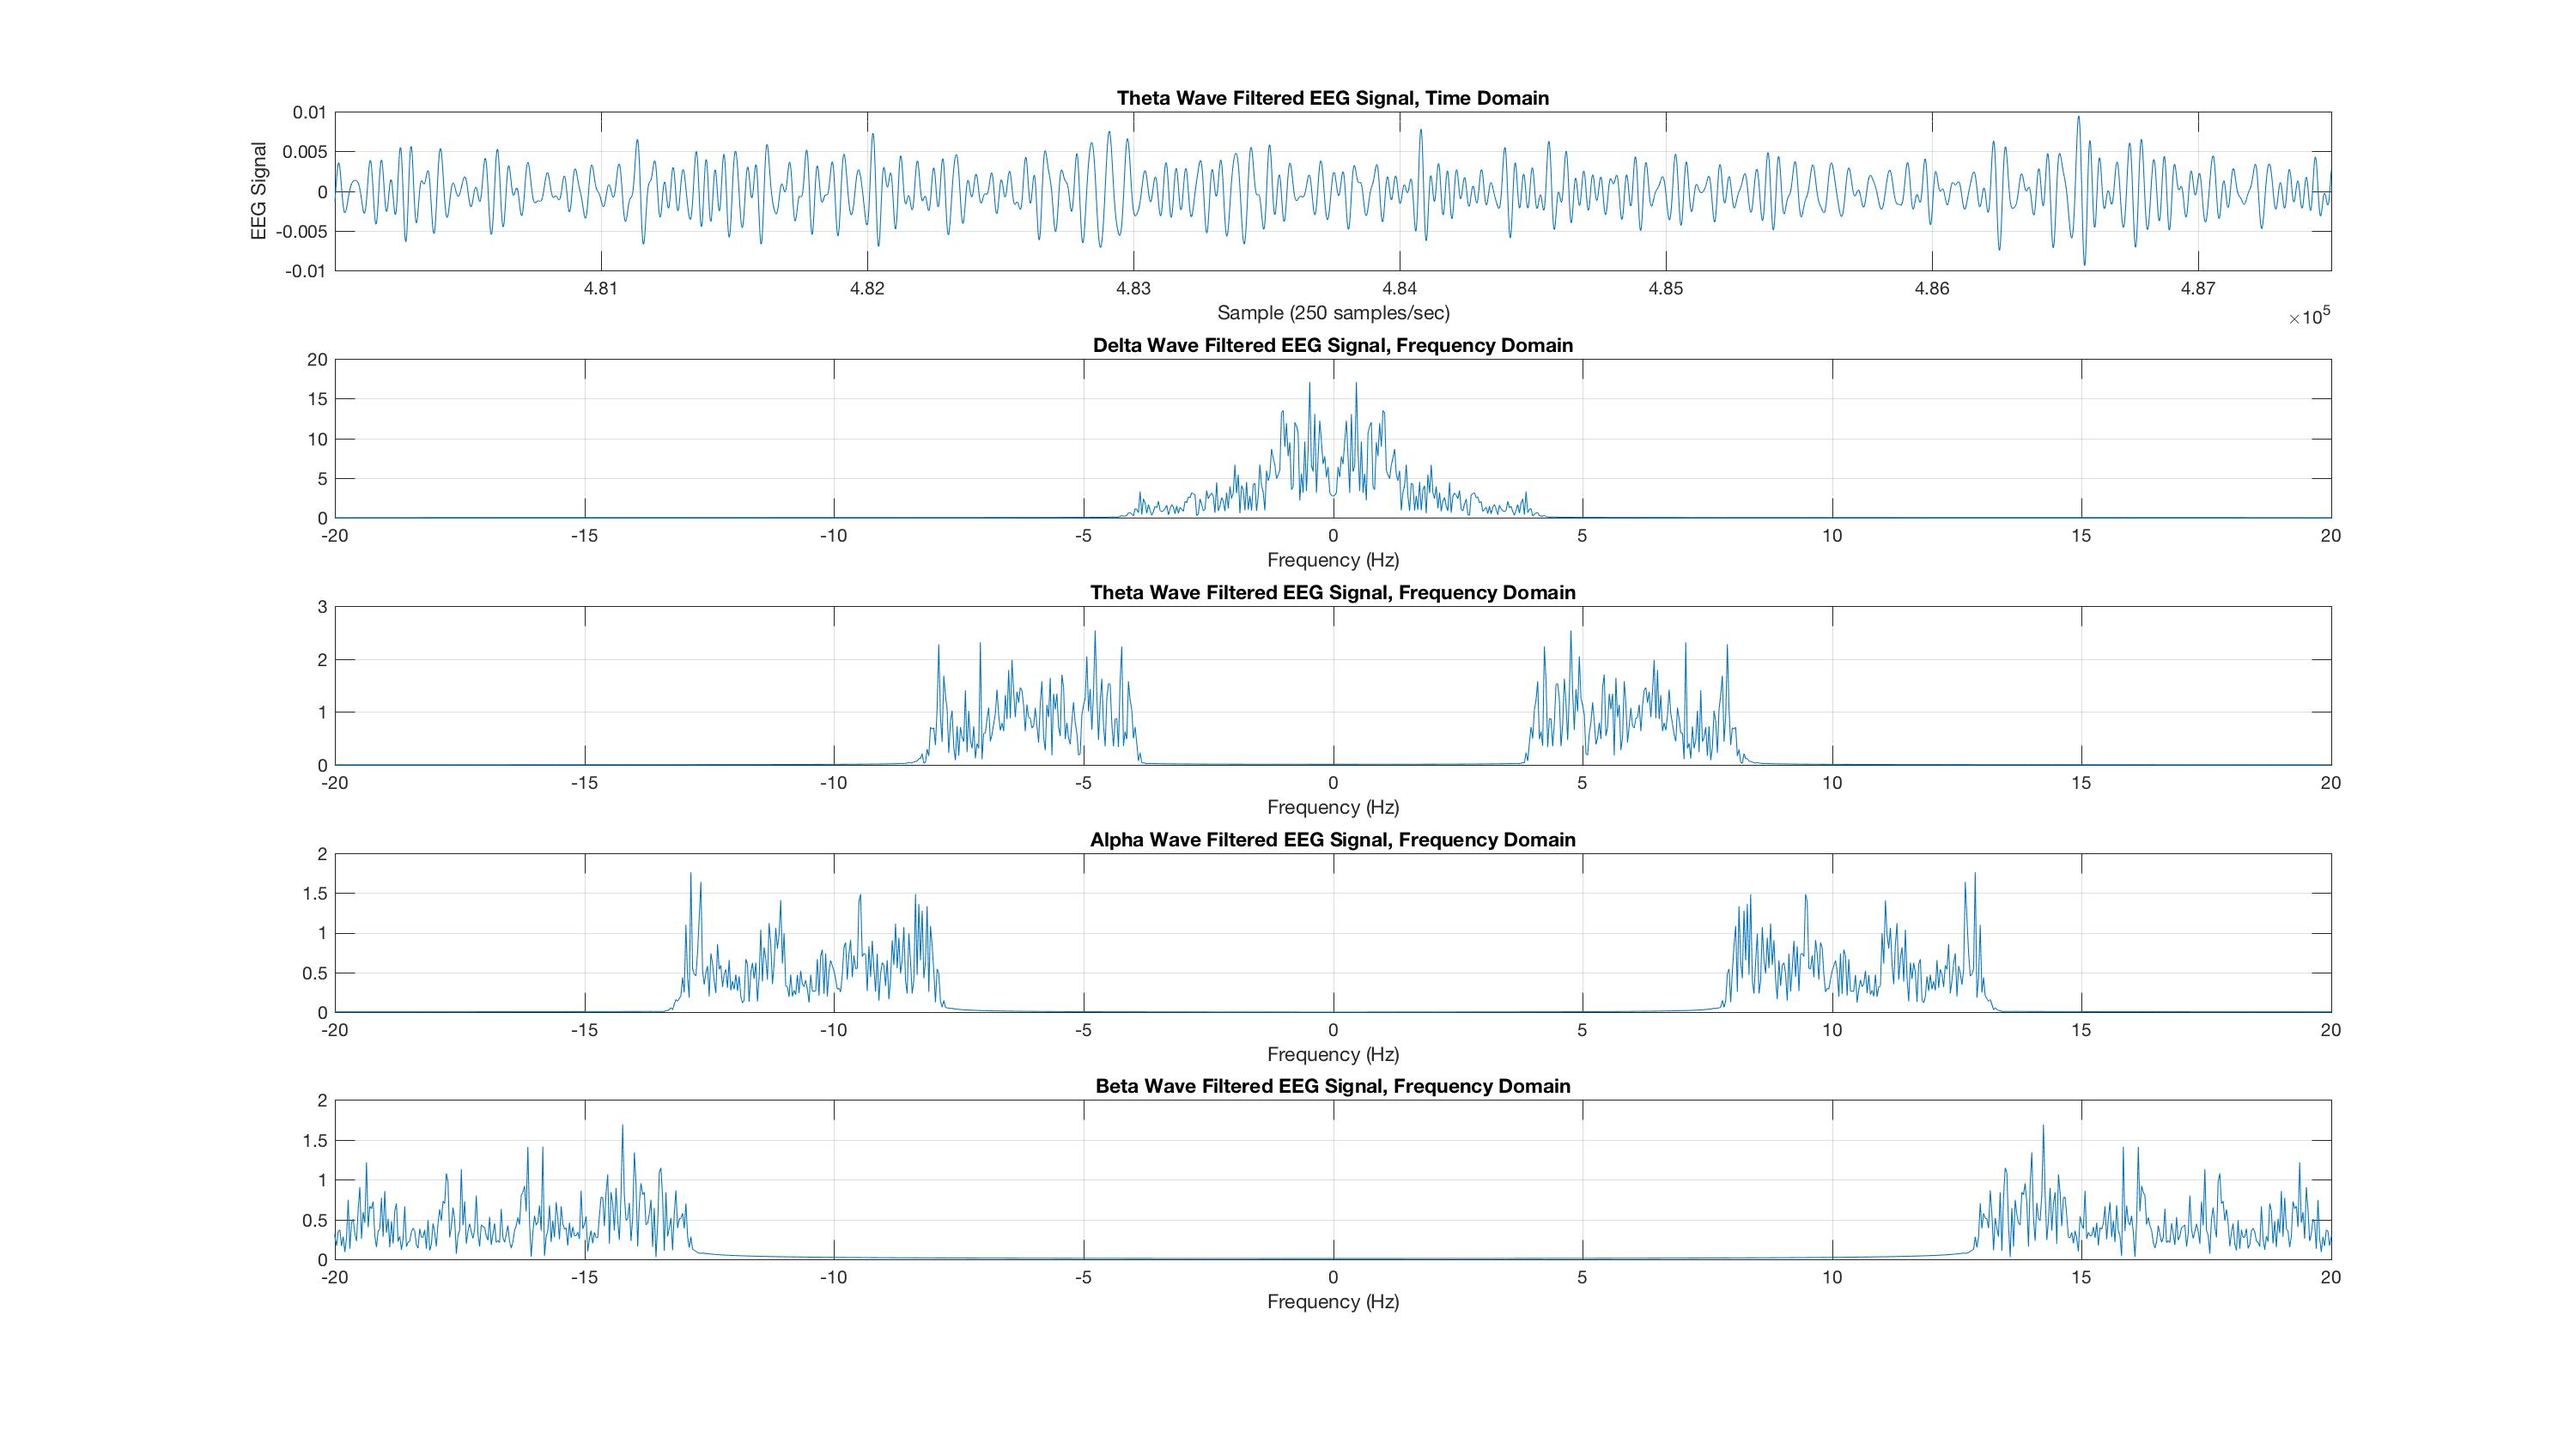
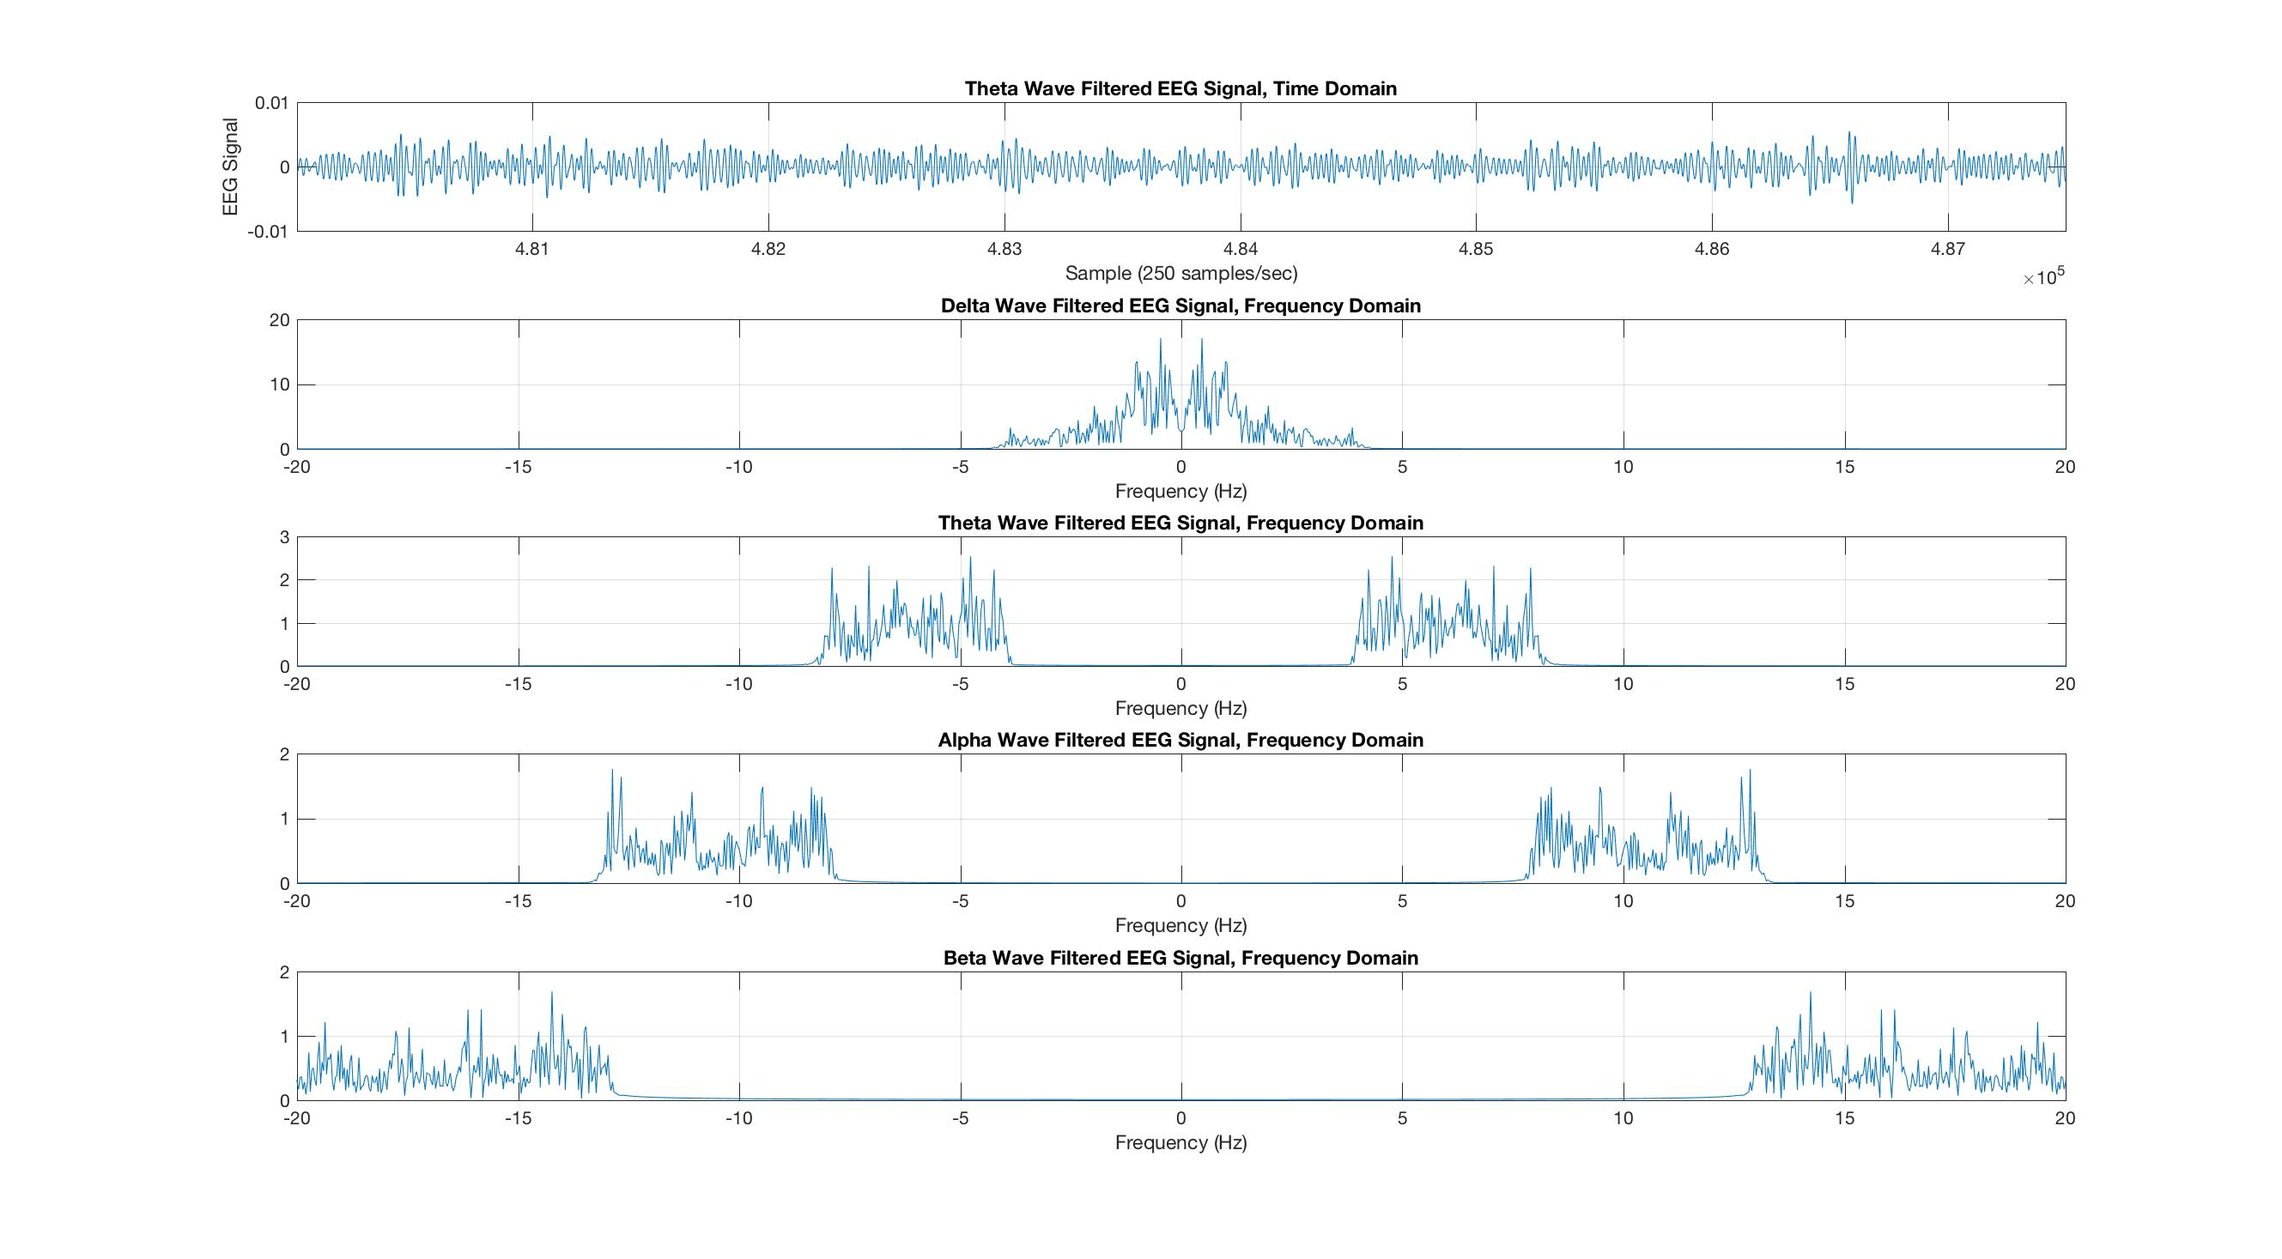
Change in filtering to implement 1 bandpass filter

diff --git a/sleepAnalysis.m b/sleepAnalysis.m
@@ -30,32 +30,28 @@
 classifierAnnotations = getSleepStages(comments);
 
 %% PRE-PROCESSING
+Fs = 250;  % samples (ticks)/second
+dt = 1/Fs; % time resolution
+T0 = length(rawData)/Fs;
+dF = 1/T0;
+time = (0:dt:T0 - dt)';
+freq = (-Fs/2:dF:Fs/2 - dF)';
+highPassCutoff = 0.5; % Hz
+lowPassCutoff  = 50;  % Hz
+
+% Filter the data set in frequency domain using a bandpass filter 0.5 Hz - 50 Hz
+freqDomainData = abs(fftshift(fft(rawData*dt)));
+bandpassFilter = zeros(length(freqDomainData),1);
+bandpassFilter(Fs*highPassCutoff:Fs*lowPassCutoff) = 1;
+filteredDataFreqDomain = bandpassFilter .* freqDomainData;
+filteredData = ifftshift(ifft(filteredDataFreqDomain));
+
+% Specify length of window to segment the data
 windowDuration = 30; % seconds
-Fs = 250; % samples (ticks)/second
-
-% Calculate specifications for frequency domain.
-dF = Fs/length(sleepStage1);       
-f = -Fs/2:dF:Fs/2-dF;
-
-% Filter for Theta waves
-alphaHd = alphaFilter(Fs);
-alphaFilteredData = filter(alphaHd, rawData);
-
-betaHd = betaFilter(Fs);
-betaFilteredData = filter(betaHd, rawData);
-
-deltaHd = deltaFilter(Fs);
-deltaFilteredData = filter(deltaHd, rawData);
-
-thetaHd = thetaFilter(Fs);
-thetaFilteredData = filter(thetaHd, rawData);
-
 % Split the entire EEG signal recording into 30 second recordings.
-% Do this for each type of filtered data.
-[tArr, alphaWindows] = getWindows(alphaFilteredData, windowDuration, Fs);
-[~, betaWindows] = getWindows(betaFilteredData, windowDuration, Fs);
-[~, deltaWindows] = getWindows(deltaFilteredData, windowDuration, Fs);
-[~, thetaWindows] = getWindows(thetaFilteredData, windowDuration, Fs);
+[tArr, alphaWindows] = getWindows(filteredData, windowDuration, Fs);
+
+%{
 
 % Test plotting an interval classified as Sleep Stage 2
 % We can find a demo sleep stage 2 interval by searching the classifierArr
@@ -68,15 +64,12 @@ sleepStage3InBeta = betaWindows{sleepStage3Index(1)};
 sleepStage3InDelta = deltaWindows{sleepStage3Index(1)};
 sleepStage3InTheta = thetaWindows{sleepStage3Index(1)};
 
-DFT2Alpha = abs(fftshift(fft(sleepStage3InAlpha)));
-DFT2Beta = abs(fftshift(fft(sleepStage3InBeta)));
-DFT2Delta = abs(fftshift(fft(sleepStage3InDelta)));
-DFT2Theta = abs(fftshift(fft(sleepStage3InTheta)));
+%}
 
 %% Compare sleep stages through plotting.
 fig1 = figure(1);
 subplot(5,1,1)
-plot(tSleepStage3, sleepStage3);
+plot(tSleepStage3, sleepStage3InAlpha);
 xlabel('Sample (250 samples/sec)')
 ylabel('EEG Signal')
 xlim([tSleepStage3(1) tSleepStage3(end)]);
@@ -116,7 +109,7 @@ saveas(fig1, 'bandpass_filter.jpg');
 
 %% CLASSIFICATION
 
-xIndex2 = find(DFT2 == max(DFT2), 1, 'last');
+xIndex2 = find(DFT2Beta == max(DFT2Beta), 1, 'last');
 maxXValue2 = f(xIndex2);
 
 maxValues = [maxXValue2];
